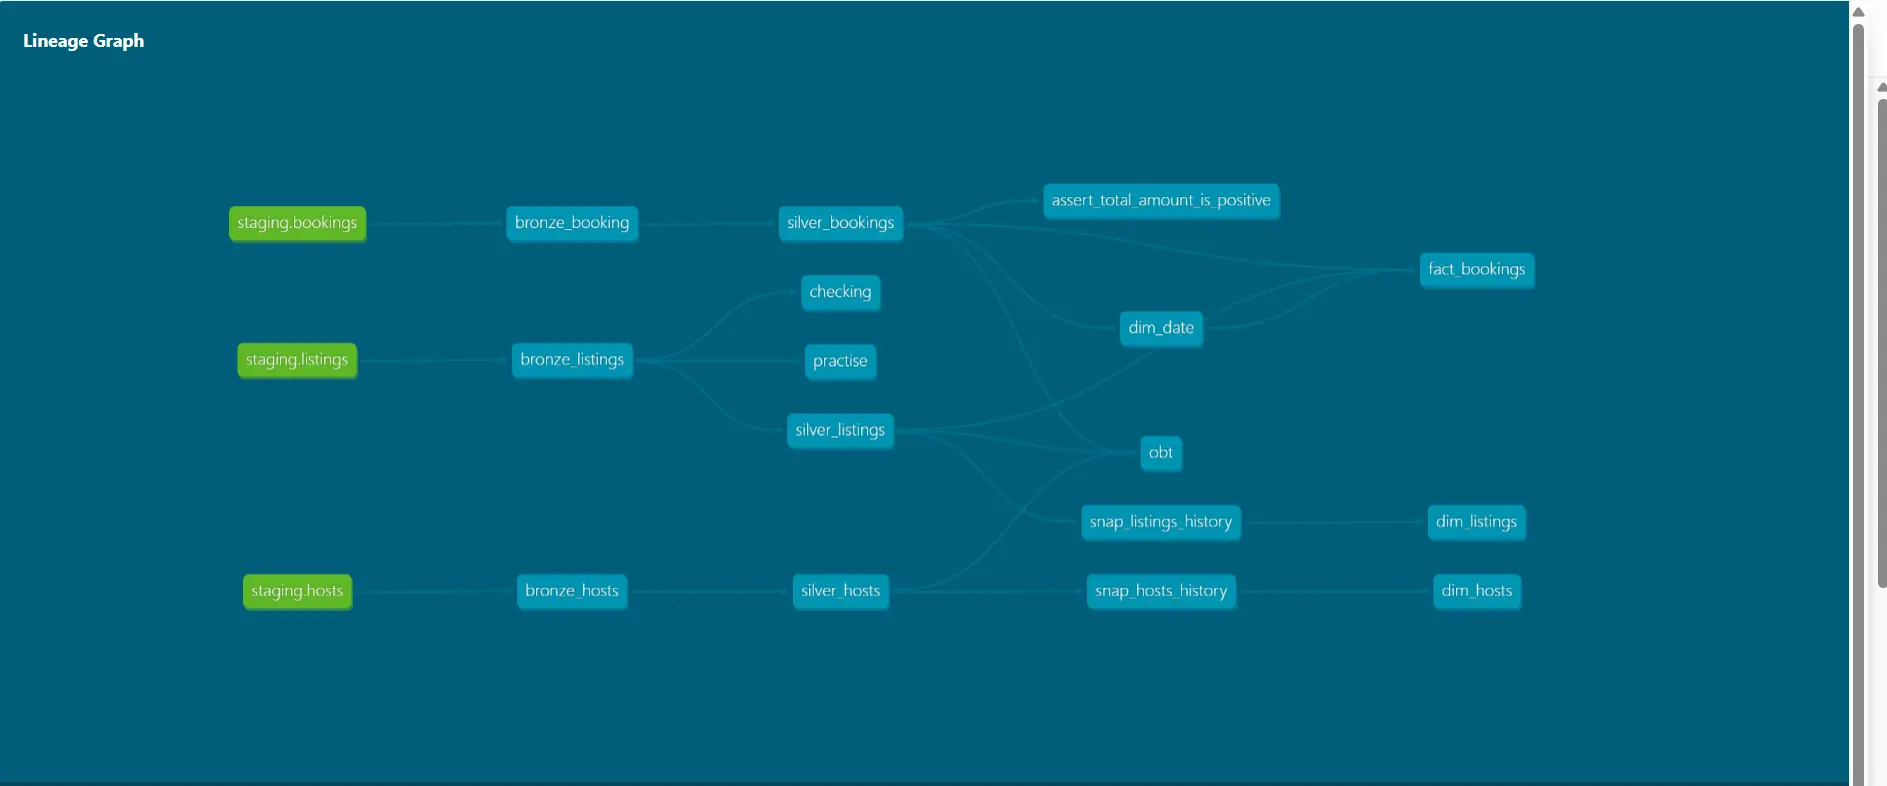
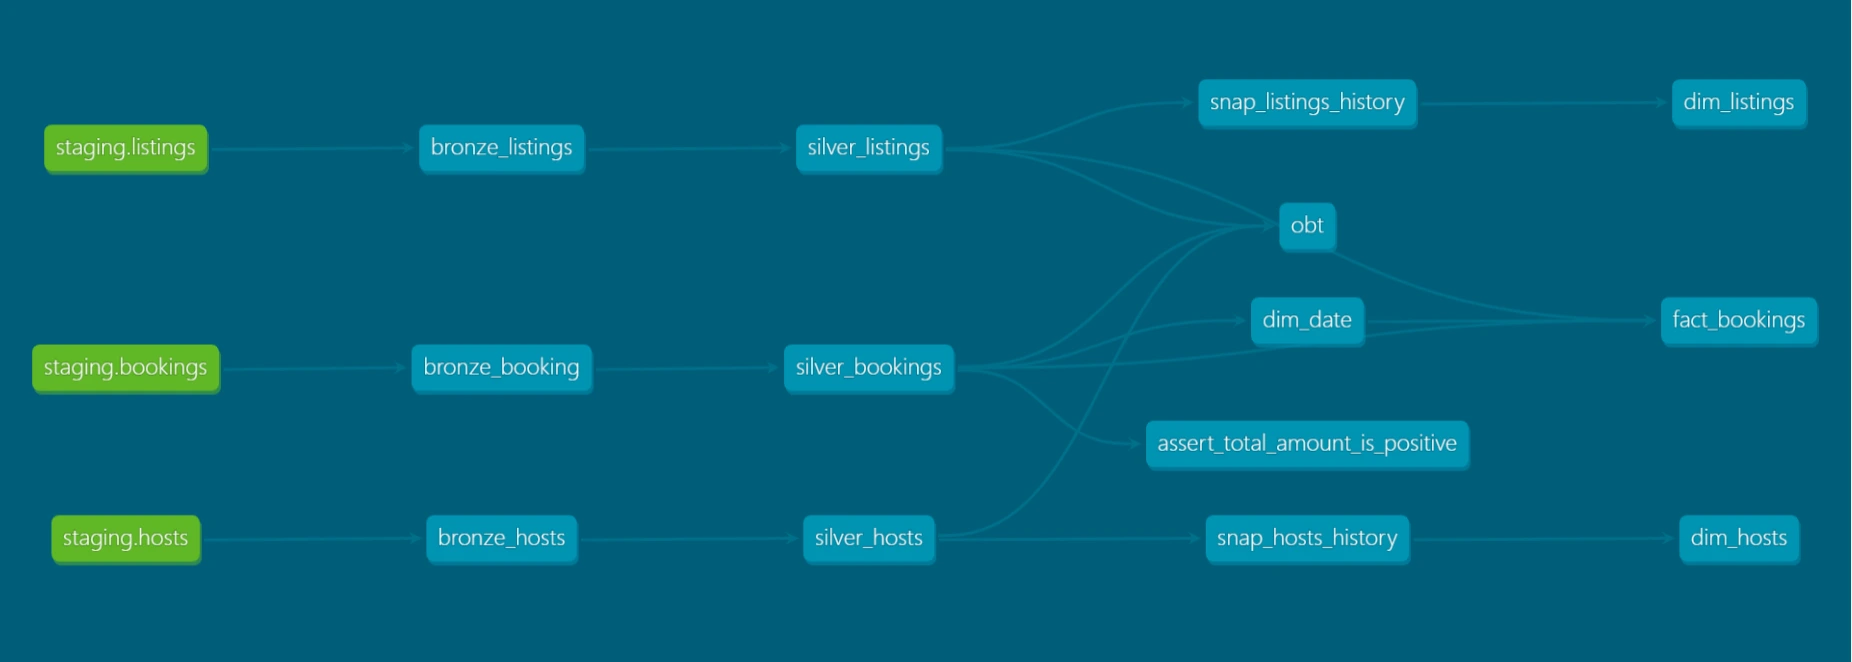
upload new airbnb project files and images

diff --git a/airbnb-analytics-engineering.html b/airbnb-analytics-engineering.html
@@ -19,21 +19,20 @@
     .case-lead { max-width: 780px; color: var(--ink-soft); font-size: 18px; line-height: 1.75; }
     .case-meta { display: flex; flex-wrap: wrap; gap: 8px; margin-top: 28px; }
     .case-meta span { padding: 7px 10px; color: var(--ink-soft); border: 1px solid var(--line); border-radius: 999px; background: var(--surface); font: 500 9px/1 "DM Mono", monospace; text-transform: uppercase; }
-    .case-section { padding: 48px 0; border-bottom: 1px solid var(--line); }
+    .case-section { padding: 38px 0; border-bottom: 1px solid var(--line); }
     .case-section h2 { margin-bottom: 22px; font-size: clamp(28px, 4vw, 42px); }
     .case-section h3 { margin: 30px 0 10px; }
     .case-section p, .case-section li { color: var(--ink-soft); font-size: 14px; line-height: 1.8; }
     .case-section ul { margin: 0; padding-left: 20px; }
     .case-section li + li { margin-top: 8px; }
-    .case-flow { padding: 20px 22px; color: var(--ink); border: 1px solid var(--line); border-radius: 14px; background: var(--surface); font: 500 12px/1.8 "DM Mono", monospace; text-align: center; }
     .case-model { display: grid; grid-template-columns: repeat(2, minmax(0,1fr)); gap: 14px; margin-top: 20px; }
     .case-model article { padding: 20px; border: 1px solid var(--line); border-radius: 14px; background: var(--surface); }
     .case-model h3 { margin: 0 0 7px; font-size: 15px; }
     .case-model p { margin: 0; font-size: 12px; }
-    .case-figure { margin: 28px 0 0; overflow: hidden; border: 1px solid var(--line); border-radius: 16px; background: var(--surface); }
+    .case-figure { margin: 20px 0 0; overflow: hidden; border: 1px solid var(--line); border-radius: 16px; background: var(--surface); }
     .case-figure img { display: block; width: 100%; height: auto; }
     .case-placeholder { display: grid; min-height: 260px; place-items: center; padding: 32px; color: var(--muted); background: var(--surface-soft); font: 500 11px/1.6 "DM Mono", monospace; text-align: center; }
-    .case-figure figcaption { padding: 12px 16px; color: var(--muted); border-top: 1px solid var(--line); font-size: 11px; }
+    .case-figure figcaption { padding: 9px 14px; color: var(--muted); border-top: 1px solid var(--line); font-size: 11px; }
     .case-footer-actions { display: flex; flex-wrap: wrap; gap: 10px; padding-top: 38px; }
     @media (max-width: 650px) { .case-page { width: min(calc(100% - 28px), 980px); padding-top: 36px; } .case-model { grid-template-columns: 1fr; } .case-lead { font-size: 16px; } }
   </style>
@@ -84,9 +83,8 @@
     </section>
 
     <section class="case-section">
-      <p class="eyebrow">ARCHITECTURE</p>
-      <h2>Pipeline flow</h2>
-      <div class="case-flow">Airbnb CSV Files → AWS S3 → Snowflake Staging → dbt Bronze → dbt Silver → dbt Snapshots and Gold Models</div>
+      <p class="eyebrow">DATA INGESTION</p>
+      <h2>Cloud source and warehouse setup.</h2>
       <figure class="case-figure">
         <img src="images/airbnb/airbnb-aws-s3-source-files.webp" alt="Airbnb CSV source files stored in AWS S3" onerror="this.hidden=true;this.nextElementSibling.hidden=false">
         <div class="case-placeholder" hidden>Add image: images/airbnb/airbnb-aws-s3-source-files.webp</div>
